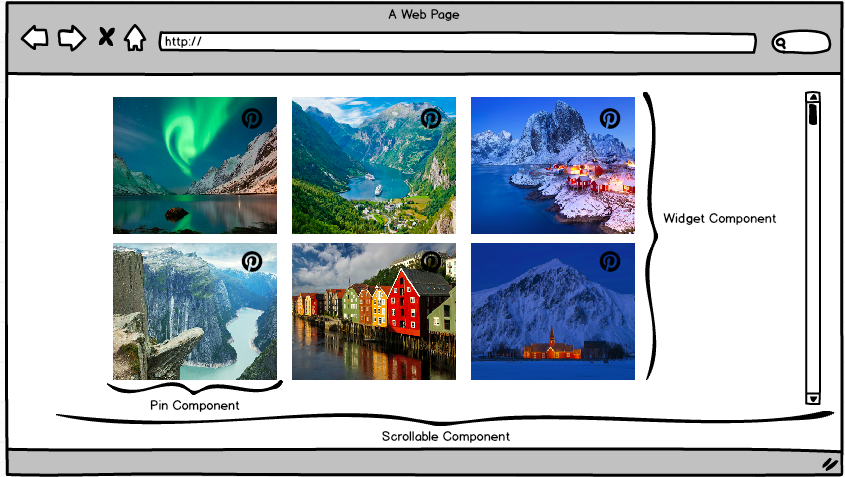
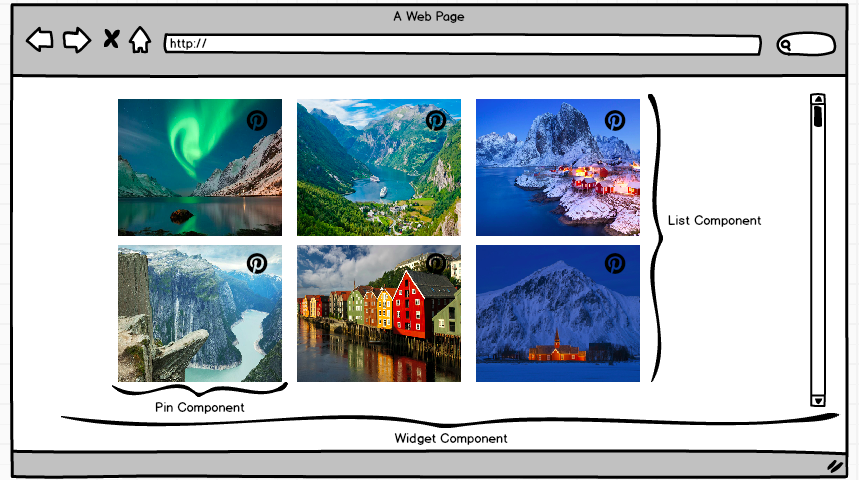
Add mockup picture to readme

Changed region(s): [[0.0, 0.0, 1.0, 1.0], [0.8, 0.8512, 0.8308, 0.8805]]

diff --git a/README.md b/README.md
@@ -12,4 +12,6 @@
 
 * Front-end:
 
-	- Simple React app. See comments in code for explanation of the different components and their functionalities. 
+	- Simple React app. See comments in code for explanation of the different components and their functionalities. This is a simple representation of how the components are structured.
+
+	![mockup](client/public/mockup.png)
